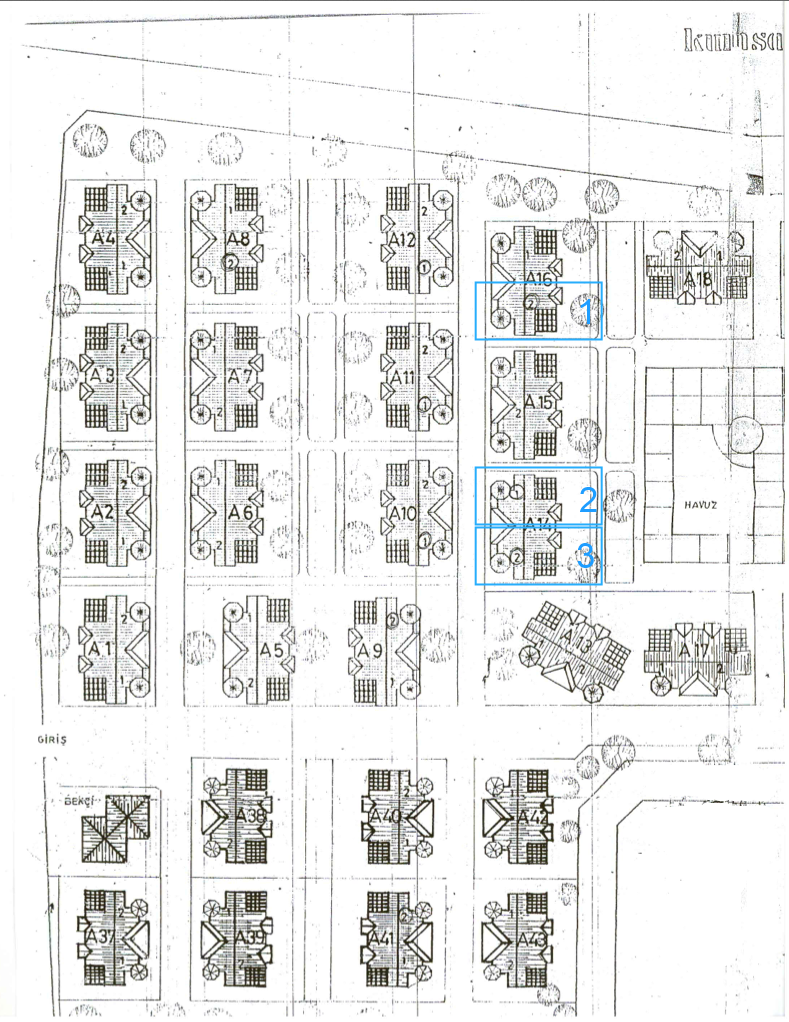
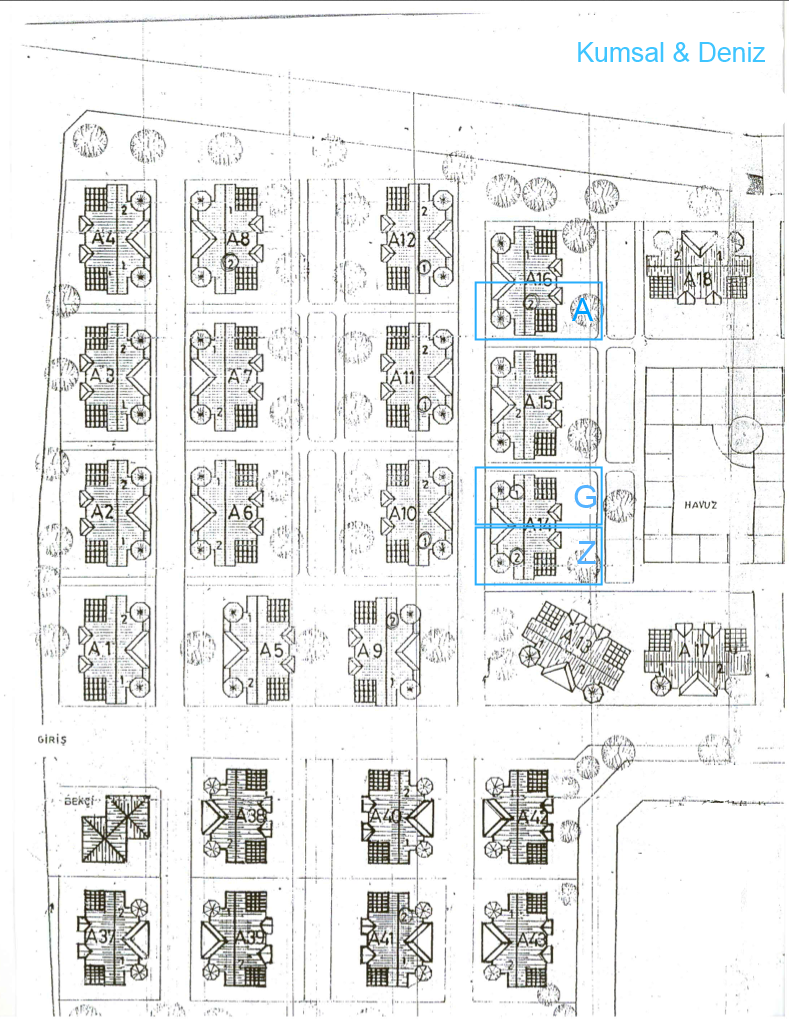
Adding the clickable area map AND made changes to the villa names

diff --git a/main.htm b/main.htm
@@ -5,12 +5,11 @@
     <meta http-equiv="Content-Type" content="text/html; charset=UTF-8">
     <meta charset="utf-8">
     <meta http-equiv="X-UA-Compatible" content="IE=edge,chrome=1">
-    <meta name="viewport" content="width=device-width, initial-scale=1 ">
-
+    <meta name="viewport" content="width=device-width, initial-scale=1">
     <link rel="shortcut icon" href="./content/favicon.ico">
     <link rel="stylesheet" href="./content/main.css" type="text/css" media="all">
     
-    <script type="text/javascript" src="https://ajax.googleapis.com/ajax/libs/jquery/1.5.0/jquery.min.js"></script>
+    <script type="text/javascript" src="http://code.jquery.com/jquery-2.0.3.min.js"></script>
     <script src="./content/modernizr-2.6.2.min.js"></script>
     
     <title>Baskent Sitesi</title>
@@ -37,7 +36,7 @@
                             <p>
                                 İstanbul ve Ankara’ya yakın mesafede, Karadeniz kıyısında, yeşilliği, yarı olimpik havuzu ve sosyal tesisleriyle 80 konutluk bir cennet
                             </p>
-                            <a id="goto-article" class="button" href="http://localhost:50876/main.htm#start">
+                            <a id="goto-article" class="button" href="#start">
                                 Detaylar
                             </a>
                         </div>
@@ -48,8 +47,8 @@
                     <div class="image-text">
                         <p>Başkent Sitesinde 5 kulvarlı yarı olimpik havuz bulunmaktadır. Tabii ki çocukları da unutmadık!</p>
                     </div><div class="image-description">
-                        <p>Fotoğraf havuza hemen karşıdan bakan villa'nın terasından çekildi.</p>
-                    </div>
+                              <p>Fotoğraf havuza hemen karşıdan bakan villa'nın terasından çekildi.</p>
+                          </div>
                 </div>
                 <div id="start" class="start">
                     <section class="segment text-segment clearfix  aside">
@@ -123,31 +122,24 @@
                     <section class="segment text-segment clearfix  aside">
                         <div class="only-text">
                             <h2>Satılık Villalar</h2>
-                            <p>Sahibini bekleyen 7 adet villamız kaldı.</p>
                             <p>
-                                <ul>
-                                    <li>Kuş bakışı siteyi gösteren bir imaj.</li>
-                                    <li>Kuş bakışı imaj üzerinde bu 7 adet villa numaralandırılmış ya da isimlendirilmiş olarak işaretlenmeli. Mümkünse tıklanabilir olmalı.</li>
-                                    <li>Her villa'nın kendine özgü bir ismi olacak. Karadeniz bölgesinin tarihi ve turistik önemli yerleri villaların isimlerini verecek.</li>
-                                    <li>Kuş bakışı resimdeki kumsal ve deniz bölümünü okunaklı olarak tekrar yaz. Mavi ile...</li>
-                                </ul>
+                                Sahibini bekleyen 7 adet villamız kaldı. Aşağıda yer alan kuşbakışı site haritasında işaretlenmiş villaları görebilirsiniz. Daha detaylı bilgi almak istediginiz villanın üzerini tıklayabilirsiniz.
                             </p>
                         </div>
                     </section>
                     <section class="segment media-segment clearfix">
                         <div class="only-image fit-column">
-                            <img alt="Baskent Sitesi Havuz ve Bahce" title="Baskent Sitesi Havuz ve Bahce" src="./baskent/map.png">
-                            <div class="image-text-container">
-                                <div class="image-text">
-                                    <p>Deniz tarafındaki villalardan birinin terasından site manzarası.</p>
-                                    <p>Sosyal tesisler, yesillik ve havuz.</p>
-                                </div><div class="image-description"></div>
-                            </div>
+                            <img id="BaskentMapImage" alt="Baskent Sitesi Havuz ve Bahce" title="Baskent Sitesi Havuz ve Bahce" src="./baskent/map.png" usemap="#image-maps">
+                            <map name="image-maps" id="BaskentMap">
+                                <area shape="rect" coords="476,282,602,339" alt="" title="" target="_self" href="#villa_abant" />
+                                <area shape="rect" coords="476,466,602,525" alt="" title="" target="_self" href="#villa_goynuk" />
+                                <area shape="rect" coords="474,527,604,584" alt="" title="" target="_self" href="#villa_zigana" />
+                            </map>
                         </div>
                     </section>
-                    <section class="segment text-segment clearfix  aside">
+                    <section id="villa_abant" class="segment text-segment clearfix  aside">
                         <div class="only-text">
-                            <h2>Villa #1</h2>
+                            <h2>Villa Abant</h2>
                             <p>
                                 <ul>
                                     <li>Villa ile ilgili bilgiler (fiyat dahil)</li>
@@ -167,9 +159,9 @@
                             </div>
                         </div>
                     </section>
-                    <section class="segment text-segment clearfix  aside">
+                    <section id="villa_goynuk" class="segment text-segment clearfix  aside">
                         <div class="only-text">
-                            <h2>Villa #2</h2>
+                            <h2>Villa Göynük</h2>
                             <p>
                                 <ul>
                                     <li>Villa ile ilgili bilgiler (fiyat dahil)</li>
@@ -189,9 +181,9 @@
                             </div>
                         </div>
                     </section>
-                    <section class="segment text-segment clearfix  aside">
+                    <section id="villa_zigana" class="segment text-segment clearfix  aside">
                         <div class="only-text">
-                            <h2>Villa #3</h2>
+                            <h2>Villa Zigana</h2>
                             <p>
                                 <ul>
                                     <li>Villa ile ilgili bilgiler (fiyat dahil)</li>
@@ -243,5 +235,11 @@
             </article>
         </div>
     </div>
+    <script src="./content/rwdImageMaps.min.js"></script>
+    <script type="text/javascript" language="javascript">
+        $(function () {
+            $('img[usemap]').rwdImageMaps();
+        });
+    </script>
 </body>
 </html>

diff --git a/content/rwdImageMaps.min.js b/content/rwdImageMaps.min.js
@@ -1,0 +1,67 @@
+/*
+* rwdImageMaps jQuery plugin v1.5
+*
+* Allows image maps to be used in a responsive design by recalculating the area coordinates to match the actual image size on load and window.resize
+*
+* Copyright (c) 2013 Matt Stow
+* https://github.com/stowball/jQuery-rwdImageMaps
+* http://mattstow.com
+* Licensed under the MIT license
+*/
+; (function ($) {
+    $.fn.rwdImageMaps = function () {
+        var $img = this;
+
+        var rwdImageMap = function () {
+            $img.each(function () {
+                if (typeof ($(this).attr('usemap')) == 'undefined')
+                    return;
+
+                var that = this,
+					$that = $(that);
+
+                // Since WebKit doesn't know the height until after the image has loaded, perform everything in an onload copy
+                $('<img />').load(function () {
+                    var attrW = 'width',
+						attrH = 'height',
+						w = $that.attr(attrW),
+						h = $that.attr(attrH);
+
+                    if (!w || !h) {
+                        var temp = new Image();
+                        temp.src = $that.attr('src');
+                        if (!w)
+                            w = temp.width;
+                        if (!h)
+                            h = temp.height;
+                    }
+
+                    var wPercent = $that.width() / 100,
+						hPercent = $that.height() / 100,
+						map = $that.attr('usemap').replace('#', ''),
+						c = 'coords';
+
+                    $('map[name="' + map + '"]').find('area').each(function () {
+                        var $this = $(this);
+                        if (!$this.data(c))
+                            $this.data(c, $this.attr(c));
+
+                        var coords = $this.data(c).split(','),
+							coordsPercent = new Array(coords.length);
+
+                        for (var i = 0; i < coordsPercent.length; ++i) {
+                            if (i % 2 === 0)
+                                coordsPercent[i] = parseInt(((coords[i] / w) * 100) * wPercent);
+                            else
+                                coordsPercent[i] = parseInt(((coords[i] / h) * 100) * hPercent);
+                        }
+                        $this.attr(c, coordsPercent.toString());
+                    });
+                }).attr('src', $that.attr('src'));
+            });
+        };
+        $(window).resize(rwdImageMap).trigger('resize');
+
+        return this;
+    };
+})(jQuery);
